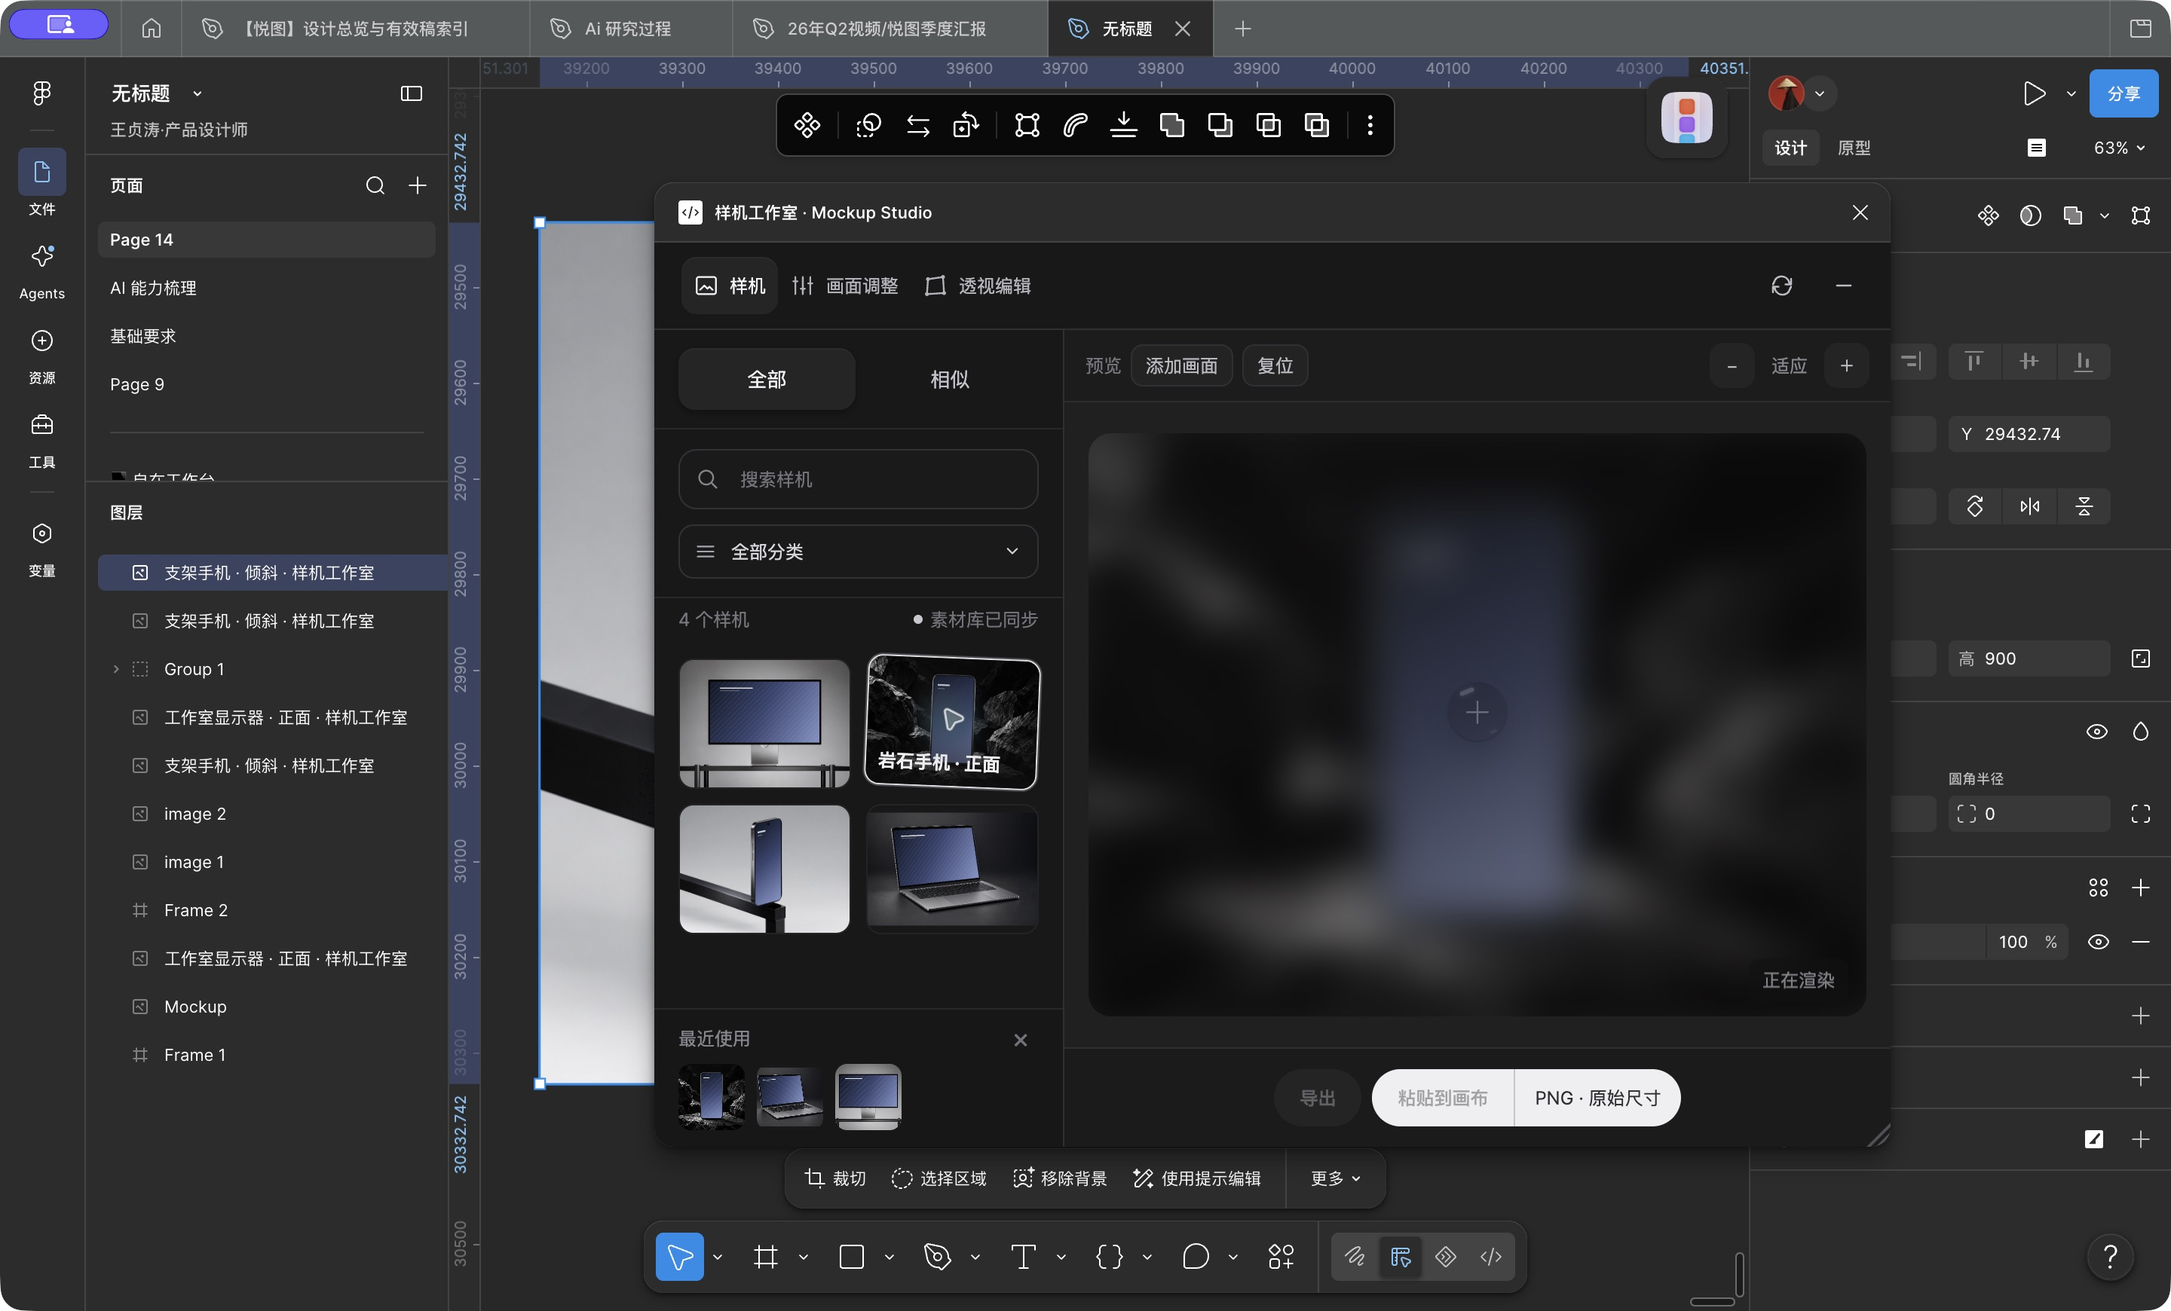
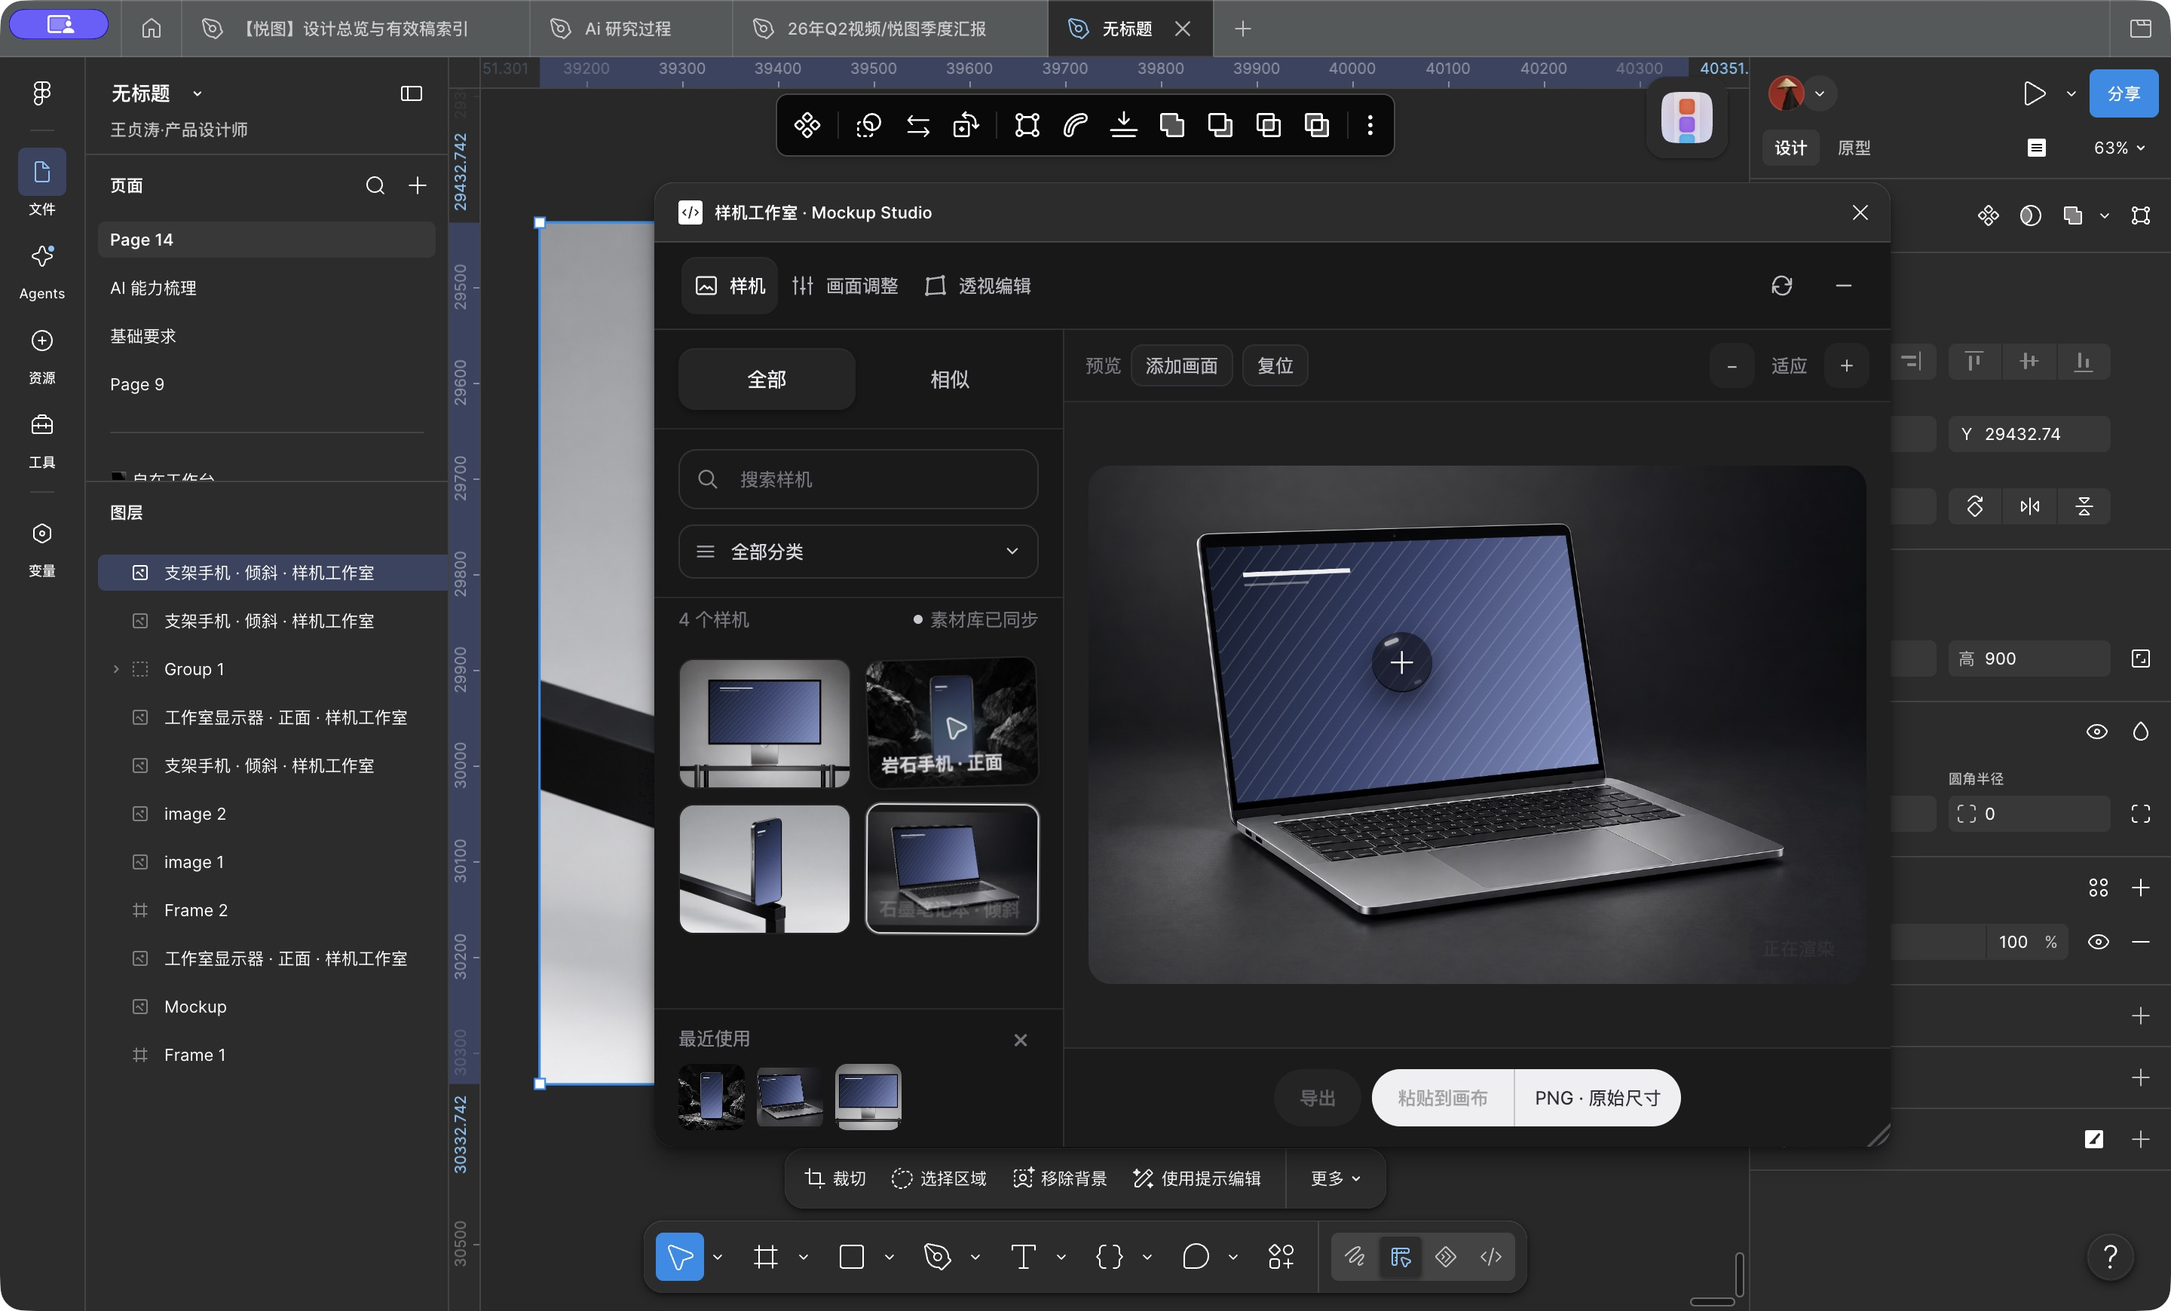
fix: smooth bidirectional preview blur transition

diff --git a/plugin/ui.html b/plugin/ui.html
@@ -23,6 +23,8 @@
   --motion-panel: 220ms;
   --ease-standard: cubic-bezier(.2, .8, .2, 1);
   --ease-out: cubic-bezier(.22, 1, .36, 1);
+  --ease-blur-in: cubic-bezier(.24, .72, .2, 1);
+  --ease-blur-out: cubic-bezier(.16, 1, .3, 1);
   font-family: Inter, -apple-system, BlinkMacSystemFont, "SF Pro Text", "PingFang SC", sans-serif;
 }
 
@@ -206,8 +208,8 @@ svg { width: 18px; height: 18px; fill: none; stroke: currentColor; stroke-width:
 .canvas-wrap { width: 1px; height: 1px; max-width: 100%; max-height: 100%; position: relative; overflow: hidden; border-radius: 15px; background: transparent; transform-origin: center; will-change: transform, opacity; transition: opacity var(--motion-base) ease; }
 .canvas-wrap.is-content-switching { cursor: progress; }
 .canvas-wrap.is-view-animating { transition: transform var(--motion-panel) var(--ease-out), opacity var(--motion-base) ease, filter var(--motion-base) ease; }
-.canvas-wrap canvas { width: 100%; height: 100%; display: block; background: transparent; transform: scale(1); filter: blur(0) saturate(1) brightness(1); opacity: 1; will-change: filter, transform, opacity; transition: filter 280ms var(--ease-out), transform 280ms var(--ease-out), opacity var(--motion-base) ease; }
-.canvas-wrap.is-content-switching canvas { transform: scale(1.055); filter: blur(24px) saturate(.58) brightness(.72); opacity: .7; transition: none; }
+.canvas-wrap canvas { width: 100%; height: 100%; display: block; background: transparent; filter: blur(0) saturate(1) brightness(1); opacity: 1; will-change: filter, opacity; transition: filter 440ms var(--ease-blur-out), opacity 360ms var(--ease-blur-out); }
+.canvas-wrap.is-content-blurred canvas { filter: blur(24px) saturate(.64) brightness(.76); opacity: .74; transition: filter 360ms var(--ease-blur-in), opacity 320ms var(--ease-blur-in); }
 .design-editor { position: absolute; inset: 0; z-index: 4; opacity: 1; pointer-events: none; transition: opacity var(--motion-base) ease; }
 .canvas-wrap.is-content-switching .design-editor, .canvas-wrap.is-content-switching .screen-cta { opacity: 0; pointer-events: none; }
 .design-editor[hidden] { display: none; }
@@ -1488,7 +1490,9 @@ const renderer = window.MockupRenderer;
 const pdfjs = window.pdfjsLib;
 const CATALOG_CACHE_KEY = "mockup-studio-catalog-v1";
 const RECENT_KEY = "mockup-studio-recent-v1";
-const MIN_CONTENT_SWITCH_MS = 480;
+const CONTENT_BLUR_ENTER_MS = 360;
+const MIN_CONTENT_BLUR_MS = 520;
+const CONTENT_REVEAL_MS = 440;
 const memoryStorage = new Map();
 
 let pdfWorkerUrl = "";
@@ -1811,6 +1815,16 @@ const reducedMotionQuery = window.matchMedia?.("(prefers-reduced-motion: reduce)
 const visibilityTimers = new WeakMap();
 const visibilityRevisions = new WeakMap();
 const enterTimers = new WeakMap();
+
+function waitForNextPaint() {
+  if (reducedMotionQuery.matches) return Promise.resolve();
+  return new Promise((resolve) => requestAnimationFrame(() => requestAnimationFrame(resolve)));
+}
+
+function waitForDuration(duration) {
+  if (duration <= 0) return Promise.resolve();
+  return new Promise((resolve) => setTimeout(resolve, duration));
+}
 
 function setAnimatedVisibility(element, visible) {
   const revision = (visibilityRevisions.get(element) || 0) + 1;
@@ -2149,7 +2163,6 @@ async function selectAsset(id) {
   const asset = state.manifest?.items.find((item) => item.id === id);
   if (!asset) return;
   const requestSequence = ++assetRequestSequence;
-  const switchStartedAt = performance.now();
   const assetChanged = state.selectedAsset?.id !== id;
   state.selectedAsset = asset;
   if (assetChanged) {
@@ -2176,6 +2189,7 @@ async function selectAsset(id) {
   elements.pasteButton.disabled = true;
   state.rendering = true;
   setAnimatedVisibility(elements.renderingBadge, true);
+  const blurWasActive = elements.canvasWrap.classList.contains("is-content-blurred");
   elements.canvasWrap.classList.add("is-content-switching");
   if (state.segment === "similar" && elements.categorySelect.value === "all") {
     renderAssetGrid({ animate: true });
@@ -2184,12 +2198,26 @@ async function selectAsset(id) {
     renderRecentStrip();
   }
 
+  if (!blurWasActive) {
+    await waitForNextPaint();
+    if (requestSequence !== assetRequestSequence) return;
+  }
+  elements.canvasWrap.classList.add("is-content-blurred");
+  const blurStartedAt = performance.now();
+
   try {
-    const baseImage = await loadImage(resolveAssetUrl(asset.layers.base));
-    const optionalLayers = await Promise.all(["reflection", "foreground"].map(async (name) => {
-      if (!asset.layers[name]) return [name, null];
-      return [name, await loadImage(resolveAssetUrl(asset.layers[name]))];
-    }));
+    const assetImagesPromise = (async () => {
+      const baseImage = await loadImage(resolveAssetUrl(asset.layers.base));
+      const optionalLayers = await Promise.all(["reflection", "foreground"].map(async (name) => {
+        if (!asset.layers[name]) return [name, null];
+        return [name, await loadImage(resolveAssetUrl(asset.layers[name]))];
+      }));
+      return { baseImage, optionalLayers };
+    })();
+    const [{ baseImage, optionalLayers }] = await Promise.all([
+      assetImagesPromise,
+      waitForDuration(reducedMotionQuery.matches ? 0 : CONTENT_BLUR_ENTER_MS)
+    ]);
     if (requestSequence !== assetRequestSequence) return;
     state.baseImage = baseImage;
     state.layerImages = Object.fromEntries(optionalLayers.filter(([, image]) => image));
@@ -2203,13 +2231,17 @@ async function selectAsset(id) {
     if (requestSequence === assetRequestSequence) showToast(error instanceof Error ? error.message : "样机加载失败");
   } finally {
     if (requestSequence === assetRequestSequence) {
-      const remainingBlurTime = Math.max(0, MIN_CONTENT_SWITCH_MS - (performance.now() - switchStartedAt));
+      const minimumBlurTime = reducedMotionQuery.matches ? 0 : MIN_CONTENT_BLUR_MS;
+      const remainingBlurTime = Math.max(0, minimumBlurTime - (performance.now() - blurStartedAt));
       if (remainingBlurTime > 0) {
-        await new Promise((resolve) => setTimeout(resolve, remainingBlurTime));
+        await waitForDuration(remainingBlurTime);
       }
       if (requestSequence !== assetRequestSequence) return;
-      state.rendering = false;
+      elements.canvasWrap.classList.remove("is-content-blurred");
       setAnimatedVisibility(elements.renderingBadge, false);
+      await waitForDuration(reducedMotionQuery.matches ? 0 : CONTENT_REVEAL_MS);
+      if (requestSequence !== assetRequestSequence) return;
+      state.rendering = false;
       elements.canvasWrap.classList.remove("is-content-switching");
       updateOutputAvailability();
     }

diff --git a/plugin/ui.js b/plugin/ui.js
@@ -6,7 +6,9 @@ const renderer = window.MockupRenderer;
 const pdfjs = window.pdfjsLib;
 const CATALOG_CACHE_KEY = "mockup-studio-catalog-v1";
 const RECENT_KEY = "mockup-studio-recent-v1";
-const MIN_CONTENT_SWITCH_MS = 480;
+const CONTENT_BLUR_ENTER_MS = 360;
+const MIN_CONTENT_BLUR_MS = 520;
+const CONTENT_REVEAL_MS = 440;
 const memoryStorage = new Map();
 
 let pdfWorkerUrl = "";
@@ -329,6 +331,16 @@ const reducedMotionQuery = window.matchMedia?.("(prefers-reduced-motion: reduce)
 const visibilityTimers = new WeakMap();
 const visibilityRevisions = new WeakMap();
 const enterTimers = new WeakMap();
+
+function waitForNextPaint() {
+  if (reducedMotionQuery.matches) return Promise.resolve();
+  return new Promise((resolve) => requestAnimationFrame(() => requestAnimationFrame(resolve)));
+}
+
+function waitForDuration(duration) {
+  if (duration <= 0) return Promise.resolve();
+  return new Promise((resolve) => setTimeout(resolve, duration));
+}
 
 function setAnimatedVisibility(element, visible) {
   const revision = (visibilityRevisions.get(element) || 0) + 1;
@@ -667,7 +679,6 @@ async function selectAsset(id) {
   const asset = state.manifest?.items.find((item) => item.id === id);
   if (!asset) return;
   const requestSequence = ++assetRequestSequence;
-  const switchStartedAt = performance.now();
   const assetChanged = state.selectedAsset?.id !== id;
   state.selectedAsset = asset;
   if (assetChanged) {
@@ -694,6 +705,7 @@ async function selectAsset(id) {
   elements.pasteButton.disabled = true;
   state.rendering = true;
   setAnimatedVisibility(elements.renderingBadge, true);
+  const blurWasActive = elements.canvasWrap.classList.contains("is-content-blurred");
   elements.canvasWrap.classList.add("is-content-switching");
   if (state.segment === "similar" && elements.categorySelect.value === "all") {
     renderAssetGrid({ animate: true });
@@ -702,12 +714,26 @@ async function selectAsset(id) {
     renderRecentStrip();
   }
 
+  if (!blurWasActive) {
+    await waitForNextPaint();
+    if (requestSequence !== assetRequestSequence) return;
+  }
+  elements.canvasWrap.classList.add("is-content-blurred");
+  const blurStartedAt = performance.now();
+
   try {
-    const baseImage = await loadImage(resolveAssetUrl(asset.layers.base));
-    const optionalLayers = await Promise.all(["reflection", "foreground"].map(async (name) => {
-      if (!asset.layers[name]) return [name, null];
-      return [name, await loadImage(resolveAssetUrl(asset.layers[name]))];
-    }));
+    const assetImagesPromise = (async () => {
+      const baseImage = await loadImage(resolveAssetUrl(asset.layers.base));
+      const optionalLayers = await Promise.all(["reflection", "foreground"].map(async (name) => {
+        if (!asset.layers[name]) return [name, null];
+        return [name, await loadImage(resolveAssetUrl(asset.layers[name]))];
+      }));
+      return { baseImage, optionalLayers };
+    })();
+    const [{ baseImage, optionalLayers }] = await Promise.all([
+      assetImagesPromise,
+      waitForDuration(reducedMotionQuery.matches ? 0 : CONTENT_BLUR_ENTER_MS)
+    ]);
     if (requestSequence !== assetRequestSequence) return;
     state.baseImage = baseImage;
     state.layerImages = Object.fromEntries(optionalLayers.filter(([, image]) => image));
@@ -721,13 +747,17 @@ async function selectAsset(id) {
     if (requestSequence === assetRequestSequence) showToast(error instanceof Error ? error.message : "样机加载失败");
   } finally {
     if (requestSequence === assetRequestSequence) {
-      const remainingBlurTime = Math.max(0, MIN_CONTENT_SWITCH_MS - (performance.now() - switchStartedAt));
+      const minimumBlurTime = reducedMotionQuery.matches ? 0 : MIN_CONTENT_BLUR_MS;
+      const remainingBlurTime = Math.max(0, minimumBlurTime - (performance.now() - blurStartedAt));
       if (remainingBlurTime > 0) {
-        await new Promise((resolve) => setTimeout(resolve, remainingBlurTime));
+        await waitForDuration(remainingBlurTime);
       }
       if (requestSequence !== assetRequestSequence) return;
-      state.rendering = false;
+      elements.canvasWrap.classList.remove("is-content-blurred");
       setAnimatedVisibility(elements.renderingBadge, false);
+      await waitForDuration(reducedMotionQuery.matches ? 0 : CONTENT_REVEAL_MS);
+      if (requestSequence !== assetRequestSequence) return;
+      state.rendering = false;
       elements.canvasWrap.classList.remove("is-content-switching");
       updateOutputAvailability();
     }

diff --git a/plugin/styles.css b/plugin/styles.css
@@ -17,6 +17,8 @@
   --motion-panel: 220ms;
   --ease-standard: cubic-bezier(.2, .8, .2, 1);
   --ease-out: cubic-bezier(.22, 1, .36, 1);
+  --ease-blur-in: cubic-bezier(.24, .72, .2, 1);
+  --ease-blur-out: cubic-bezier(.16, 1, .3, 1);
   font-family: Inter, -apple-system, BlinkMacSystemFont, "SF Pro Text", "PingFang SC", sans-serif;
 }
 
@@ -200,8 +202,8 @@ svg { width: 18px; height: 18px; fill: none; stroke: currentColor; stroke-width:
 .canvas-wrap { width: 1px; height: 1px; max-width: 100%; max-height: 100%; position: relative; overflow: hidden; border-radius: 15px; background: transparent; transform-origin: center; will-change: transform, opacity; transition: opacity var(--motion-base) ease; }
 .canvas-wrap.is-content-switching { cursor: progress; }
 .canvas-wrap.is-view-animating { transition: transform var(--motion-panel) var(--ease-out), opacity var(--motion-base) ease, filter var(--motion-base) ease; }
-.canvas-wrap canvas { width: 100%; height: 100%; display: block; background: transparent; transform: scale(1); filter: blur(0) saturate(1) brightness(1); opacity: 1; will-change: filter, transform, opacity; transition: filter 280ms var(--ease-out), transform 280ms var(--ease-out), opacity var(--motion-base) ease; }
-.canvas-wrap.is-content-switching canvas { transform: scale(1.055); filter: blur(24px) saturate(.58) brightness(.72); opacity: .7; transition: none; }
+.canvas-wrap canvas { width: 100%; height: 100%; display: block; background: transparent; filter: blur(0) saturate(1) brightness(1); opacity: 1; will-change: filter, opacity; transition: filter 440ms var(--ease-blur-out), opacity 360ms var(--ease-blur-out); }
+.canvas-wrap.is-content-blurred canvas { filter: blur(24px) saturate(.64) brightness(.76); opacity: .74; transition: filter 360ms var(--ease-blur-in), opacity 320ms var(--ease-blur-in); }
 .design-editor { position: absolute; inset: 0; z-index: 4; opacity: 1; pointer-events: none; transition: opacity var(--motion-base) ease; }
 .canvas-wrap.is-content-switching .design-editor, .canvas-wrap.is-content-switching .screen-cta { opacity: 0; pointer-events: none; }
 .design-editor[hidden] { display: none; }

diff --git a/docs/QA_EXPRESSIVE_MOTION_2026-10-30.md b/docs/QA_EXPRESSIVE_MOTION_2026-10-30.md
@@ -5,7 +5,7 @@
 - 样机卡片每次鼠标移入时随机向左或向右扭转几度，但同一次悬停期间不重算、不抖动、不增加悬停描边。
 - “全部 / 相似”使用同一个状态底板滑动切换。
 - 分类从原生 `select` 替换为可控的自定义 `listbox`，带弹出、收起和箭头旋转过渡。
-- 每次切换样机时立即对预览实施 24px CSS Gaussian blur，最少保持 480ms，即使本地缓存秒开也必须清晰可见；随后用 280ms 缓动恢复清晰。
+- 样机切换采用独立的双向高斯模糊曲线：360ms 柔和进入 24px 强模糊，模糊阶段最少保持 520ms，再用 440ms 更舒展的曲线恢复清晰；不使用突然放大或瞬时跳变。
 
 ## 功能与动效验证
 
@@ -17,9 +17,11 @@
 | 悬停描边 | 比较移入前后非选中卡片 `border-color` | 前后均为透明 |
 | 全部 / 相似 | 真实点击后在 70ms 和 310ms 取样 | 状态底板从 0px 经 108.81px 移至 129.5px，并能返回全部 |
 | 分类弹层 | 真实点击，70ms 取样，选择“手机”，再用键盘恢复“全部分类” | 中段透明度 0.47，过渡后 1；标签、筛选结果、ARIA 状态同步 |
-| 缓存秒开高斯模糊 | 资产已缓存后真实点击其他样机，立即取样 | 读取到 `blur(24px)`、`opacity: 0.7`、`scale(1.055)`和 `transition: none`，模糊入场不再被加载速度跳过 |
-| 模糊保持与退场 | 连续取样切换状态 | 强模糊保持窗口为 480ms；解除后中间帧读取到 `blur(6.22px)`，最终回到 `blur(0px)` |
+| 清晰 → 高斯模糊 | 缓存资产真实点击，浏览器内每 40ms 连续取样 | 进入曲线为 `0 → 3.45 → 13.73 → 18.07 → 21.31 → 23.35 → 24px`，不再从清晰帧直接跳到 24px |
+| 渲染时序闸门 | 对比改造前后的主线程取样 | 素材并行加载，但画布重绘必须等 360ms 模糊进入完成后才可开始；重绘占用主线程时画面已稳定在 24px |
+| 高斯模糊 → 清晰 | 重绘完成后继续每 40ms 取样 | 退出曲线为 `24 → 11.00 → 6.41 → 2.91 → 1.68 → 0.72 → 0.13 → 0px`，最终恢复 `opacity: 1` |
 | 连续快速切换 | 70ms 间隔连续点击两个样机 | 旧请求不会清理新请求的状态，最终样机正确，模糊恢复为 `blur(0px)` |
+| 退出途中再次切换 | 模糊已降至 1.73px 时点击另一样机 | 从当前帧平滑转回 10.79px，不闪回清晰帧，最终正确完成新样机 |
 | 减少动效 | `prefers-reduced-motion: reduce` 的 900×700 环境 | 分段、弹层过渡均为 0s，功能仍可用 |
 | 小窗口布局 | 900×700 整体截图与区域边界检查 | 无页面横向或纵向滚动，左侧库、预览区和底部操作区均完整可见 |
 
@@ -28,7 +30,7 @@
 - 循环切换“样机 / 画面调整 / 透视编辑”，左侧面板和标题正确同步。
 - 缩放到 110% 再恢复适应，预览控件正常。
 - 搜索“手机”得到 2 个结果，清空后恢复 4 个结果。
-- Figma+EX 宿主中关闭并重载最终构建，真实指针切换至“石墨笔记本”和“岩石手机”，切换期间预览只保留强模糊轮廓且“正在渲染”可见，完成后回到清晰可用状态。
+- Figma+EX 宿主中关闭并重载最终构建，真实点击“石墨笔记本”和“岩石手机”；可见中间模糊帧、“正在渲染”淡出和最终清晰状态，插件保持可用。
 
 ## 视觉证据
 
